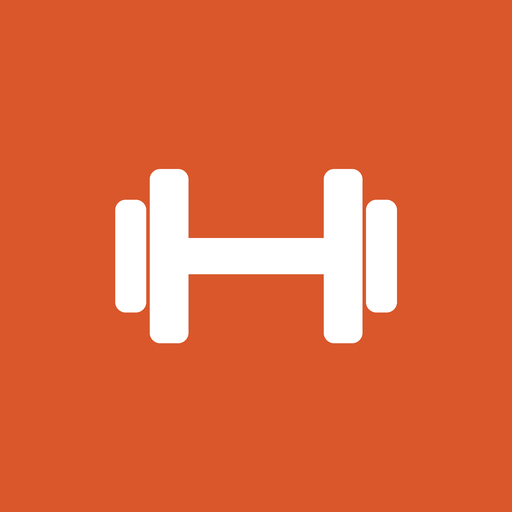
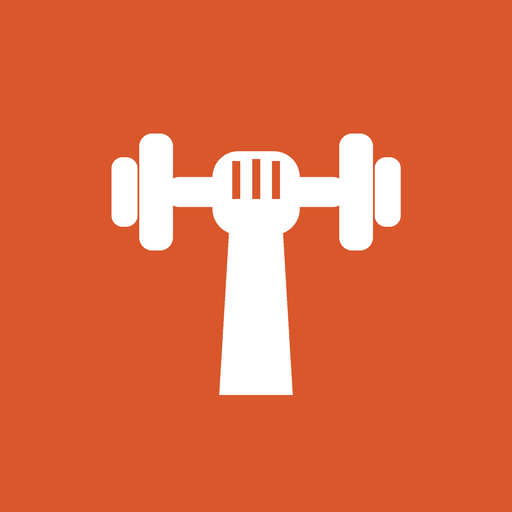
앱 아이콘을 HOME-T 로고의 아령 T 모양으로 변경

Changed region(s): [[0.2188, 0.25, 0.7812, 0.7812]]

diff --git a/index.html b/index.html
@@ -277,10 +277,10 @@ html{-webkit-text-size-adjust:100%}
   <button data-go="log"><svg viewBox="0 0 24 24"><path d="M4 20V10M10 20V4M16 20v-7M22 20H2"/></svg>기록</button>
 </div></nav>
 
-<script src="logic.js?v=202611131015"></script>
-<script src="figure.js?v=202611131015"></script>
-<script src="exercises.js?v=202611131015"></script>
-<script src="planner.js?v=202611131015"></script>
+<script src="logic.js?v=202611131017"></script>
+<script src="figure.js?v=202611131017"></script>
+<script src="exercises.js?v=202611131017"></script>
+<script src="planner.js?v=202611131017"></script>
 <script>
 (function () {
 'use strict';

diff --git a/sw.js b/sw.js
@@ -1,5 +1,5 @@
 // HOME-T 서비스 워커: 새 버전을 바로 받도록 네트워크 우선, 오프라인이면 저장해 둔 사본으로 열어요.
-const CACHE = "homet-202611131015";
+const CACHE = "homet-202611131017";
 const SHELL = ["./", "./index.html", "./manifest.webmanifest", "./logic.js", "./figure.js", "./exercises.js", "./planner.js",
   "./icons/icon-180.png", "./icons/icon-192.png", "./icons/icon-512.png"];
 
